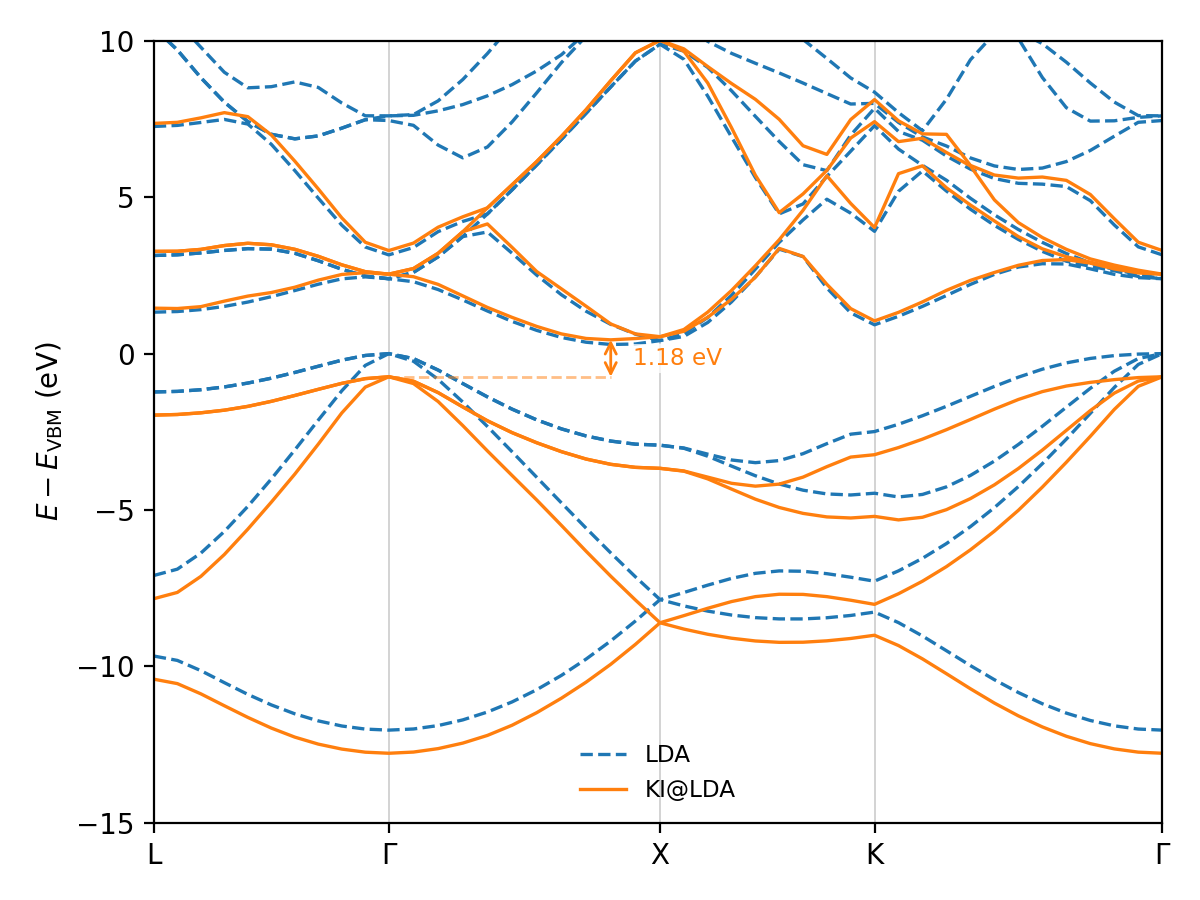
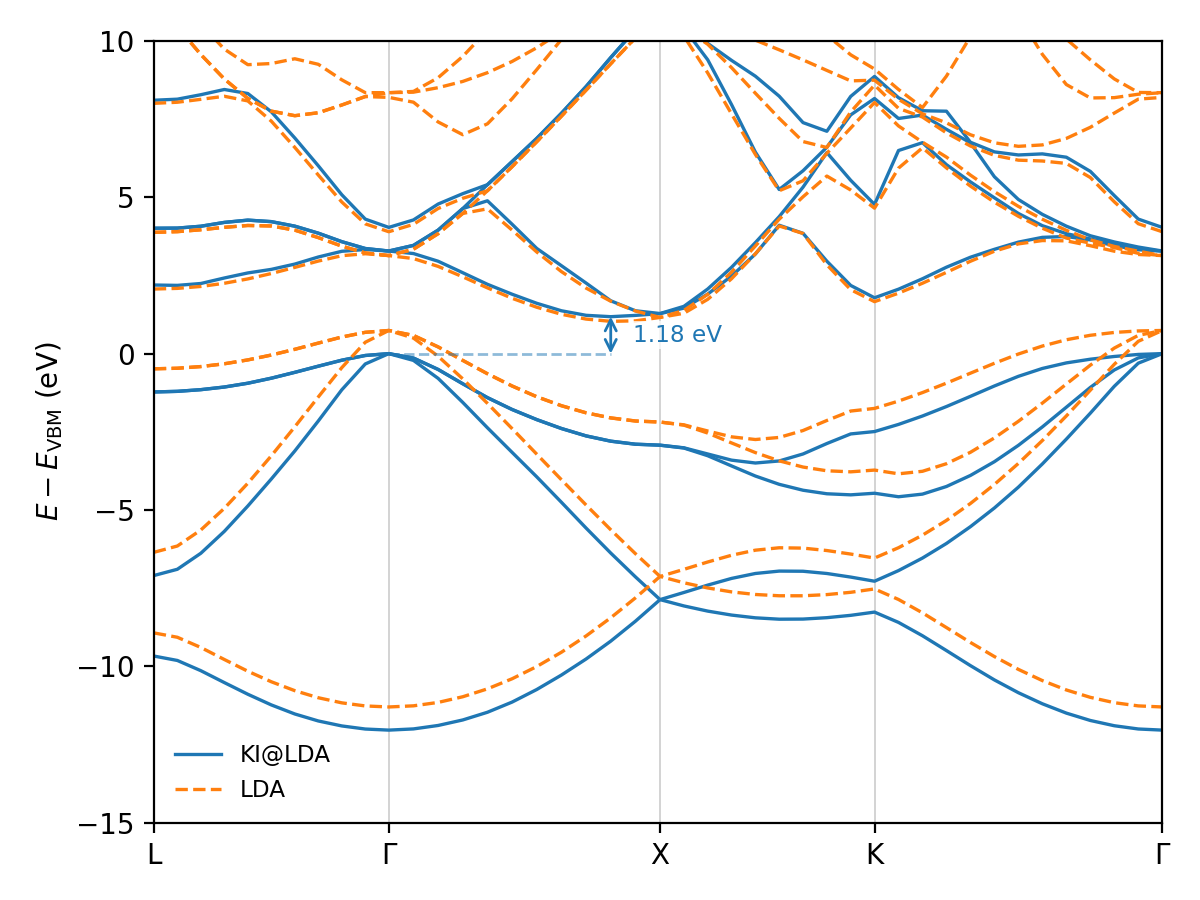
List KI@LDA first in the silicon band plot
The homepage's first panel draws the Koopmans series in blue and
the second drew it in orange, since the plot command listed the LDA
bands first.

- List the KI@LDA bands first in the tutorial's plot command, so
  they take the first colour and the first legend entry; the LDA
  bands stay dashed.
- The energy zero becomes the KI valence-band maximum; the text
  says so.
- Regenerate ki_bandstructure.png with the command shown.

diff --git a/docs/source/tutorials/band_structures/silicon_finite_differences/index.rst b/docs/source/tutorials/band_structures/silicon_finite_differences/index.rst
@@ -424,15 +424,15 @@ Wannierization computed along the same path:
 .. code-block:: console
 
     $ koopmans plot bandstructure \
-        si/04-wannierize_smooth/01-bands --label LDA --style -- \
         si/06-interpolate_band_structure/05-build_band_structure --label "KI@LDA" --gap \
+        si/04-wannierize_smooth/01-bands --label LDA --style -- \
         --ylim -15 10 \
         -o ki_bandstructure.png
 
 Each argument names one calculation directory inside the run, so each contributes one set
 of bands with its own label and style; ``--gap`` marks the band gap of the set it follows.
 Both sets are on the same energy scale, so no shift is needed to compare them: the zero
-is the LDA valence-band maximum.
+is the valence-band maximum of the first set listed, here the KI one.
 
 .. question:: What does the KI band structure look like, and what is the band gap?
 
